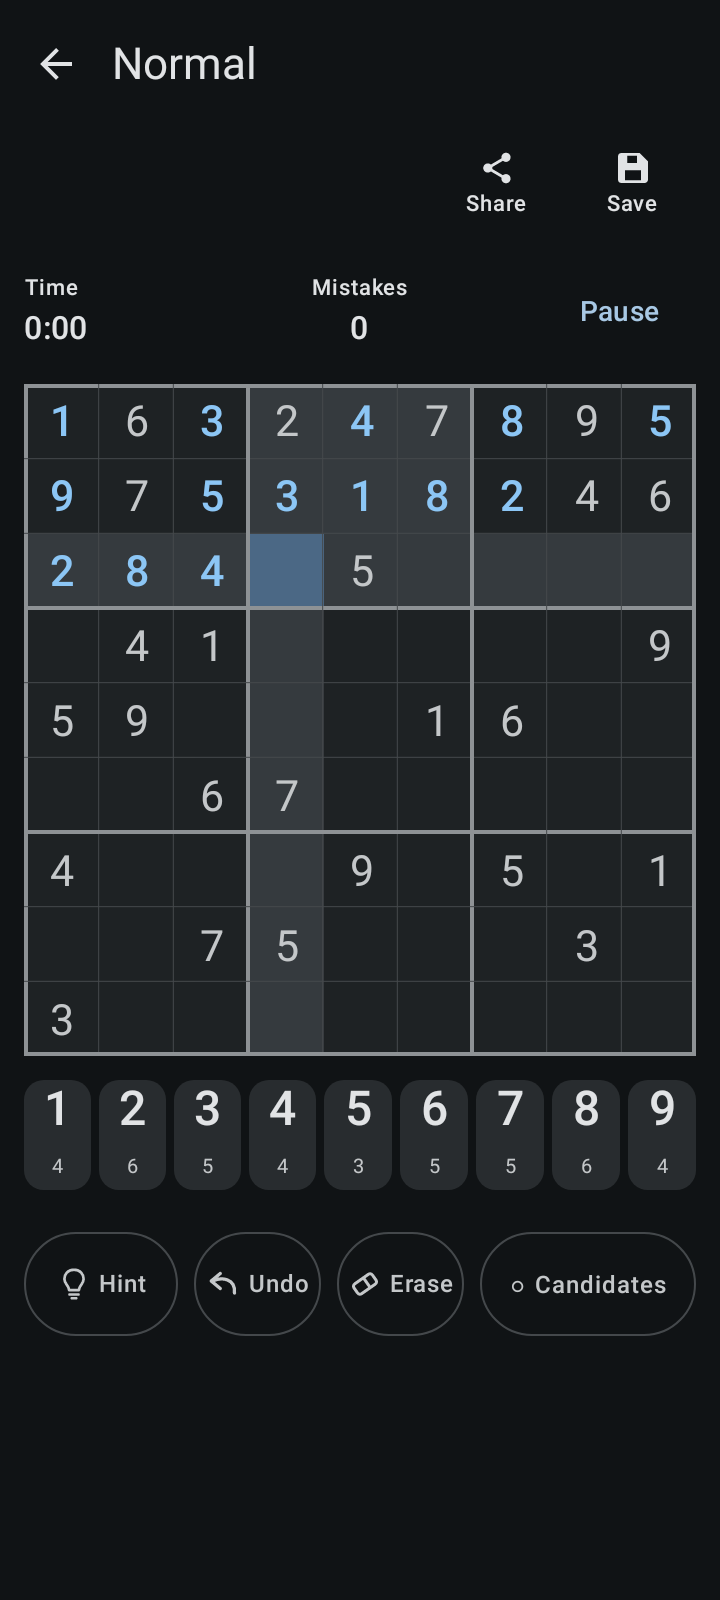
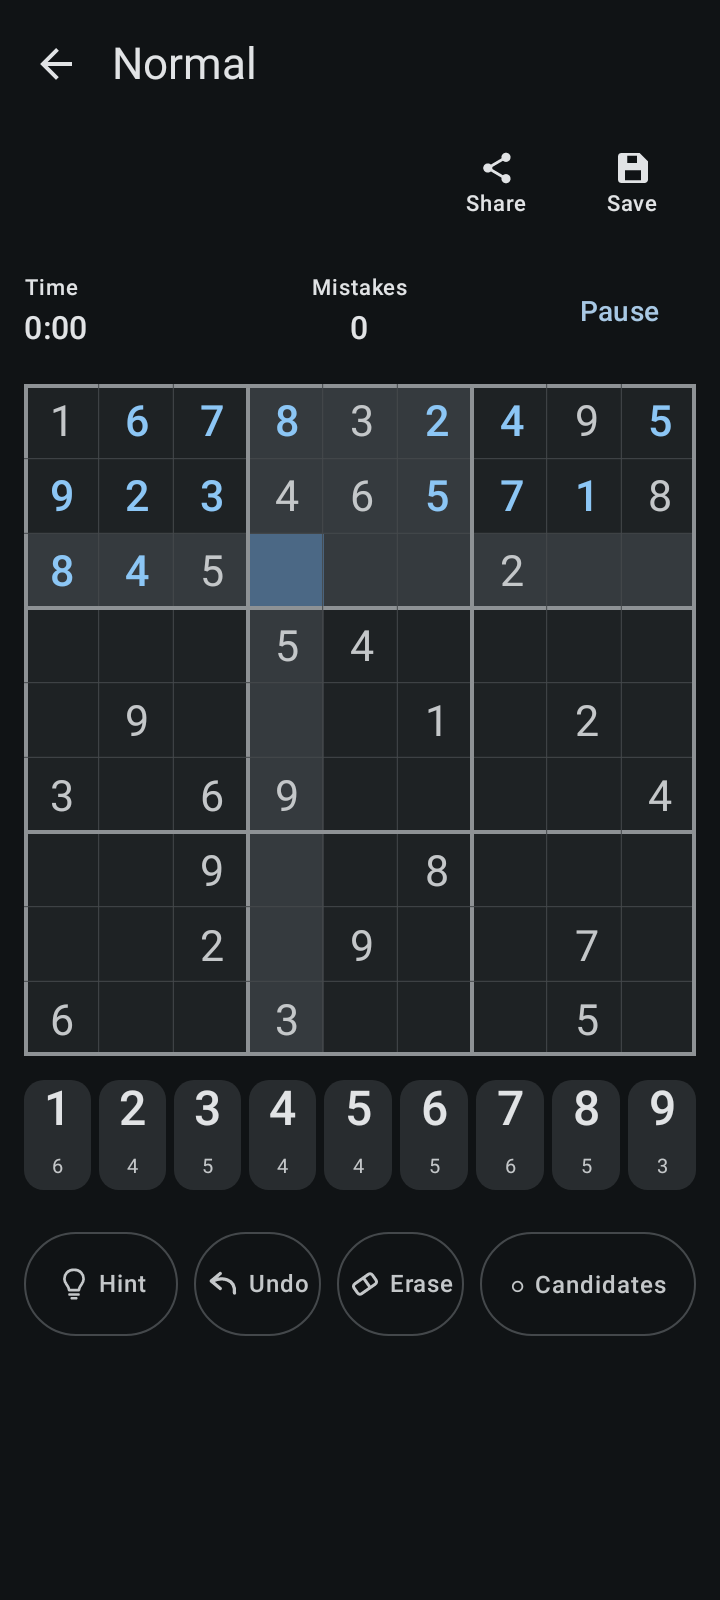
Generate the screenshots from a fixed seed
They changed on every run. startNewGame asks the generator for a fresh board, so each test pass
produced different puzzles and showed up as a modification to committed files — which is exactly what
I had claimed in store/README.md would not happen.

The board now comes from generateFromSeed, and is prepared once and drawn in both themes rather than
played independently for each. Proved rather than asserted this time: the files were deleted and
regenerated by a full run, and came back byte for byte identical to the committed ones. The first
attempt at proving it was worthless — Gradle had skipped the task as up to date, so nothing was
rewritten and of course nothing differed.

Claude-Session: https://claude.ai/code/session_01MsPpuDNgNEUbuBLgchuAx4

diff --git a/app/src/test/kotlin/com/przunk/kratkoza/screenshot/StoreScreenshotsTest.kt b/app/src/test/kotlin/com/przunk/kratkoza/screenshot/StoreScreenshotsTest.kt
@@ -9,6 +9,7 @@ import com.przunk.kratkoza.data.FakePuzzleDao
 import com.przunk.kratkoza.data.FakeSavedGameDao
 import com.przunk.kratkoza.data.repository.DailyRepository
 import com.przunk.kratkoza.data.repository.GameRepository
+import com.przunk.kratkoza.data.repository.toEntity
 import com.przunk.kratkoza.data.repository.StatisticsRepository
 import com.przunk.kratkoza.domain.model.Difficulty
 import com.przunk.kratkoza.domain.settings.GameSettings
@@ -93,13 +94,14 @@ class StoreScreenshotsTest {
     @Test
     fun `every screenshot is written in both themes`() {
         val written = mutableListOf<File>()
+        val puzzleId = preparedBoard()
 
         for (theme in listOf(ThemeMode.DARK, ThemeMode.LIGHT)) {
             val suffix = theme.name.lowercase()
 
             // Built here rather than inside the composable: a ViewModel constructed during
             // composition is rebuilt on every recomposition, and the screens are only being drawn.
-            val game = playedGame()
+            val game = boardOn(puzzleId)
             val daily = DailyViewModel(dailyRepository) { FIXED_DAY }
             val statistics = StatisticsViewModel(statisticsRepository)
 
@@ -141,26 +143,42 @@ class StoreScreenshotsTest {
         }
     }
 
-    /** A board with a few digits in it: an empty grid says nothing about the game. */
-    private fun playedGame(): GameViewModel {
-        val game = runBlocking { repository.startNewGame(Difficulty.NORMAL) }
-        val model = GameViewModel(
-            puzzleId = game.state.puzzle.id,
-            gameRepository = repository,
-            settingsFlow = MutableStateFlow(GameSettings.DEFAULT),
-            debugTools = false,
-            clock = { FIXED_ELAPSED_START },
-        )
+    /**
+     * One board, from a fixed seed, played a little way in.
+     *
+     * Seeded rather than generated freshly, or the screenshots differ on every run and each test
+     * pass shows up as a change to committed files. An empty grid also says nothing about the game,
+     * hence the digits.
+     */
+    private fun preparedBoard(): String {
+        val puzzle = SudokuGenerator().generateFromSeed(Difficulty.NORMAL, BOARD_SEED)
+        val game = runBlocking {
+            puzzleDao.insert(puzzle.toEntity())
+            repository.openGame(puzzle)
+        }
 
+        val model = viewModelFor(puzzle.id)
         val empties = (0 until Sudoku.CELL_COUNT).filter { game.state.puzzle.givens.isEmpty(it) }
         for (cell in empties.take(FILLED_CELLS)) {
             model.selectCell(cell)
             model.enterDigit(game.state.puzzle.solution[cell])
         }
-        // Left on a cell, so the screenshot shows the highlighting rather than a bare grid.
-        model.selectCell(empties[FILLED_CELLS])
-        return model
+        return puzzle.id
     }
+
+    /** The same board again, with a cell chosen so the highlighting shows rather than a bare grid. */
+    private fun boardOn(puzzleId: String): GameViewModel = viewModelFor(puzzleId).apply {
+        val puzzle = runBlocking { repository.loadGame(puzzleId) }!!.state
+        selectCell((0 until Sudoku.CELL_COUNT).first { puzzle.board.isEmpty(it) })
+    }
+
+    private fun viewModelFor(puzzleId: String) = GameViewModel(
+        puzzleId = puzzleId,
+        gameRepository = repository,
+        settingsFlow = MutableStateFlow(GameSettings.DEFAULT),
+        debugTools = false,
+        clock = { FIXED_ELAPSED_START },
+    )
 
     private fun write(name: String, content: @androidx.compose.runtime.Composable () -> Unit): File {
         val bitmap = render(WIDTH_PX, HEIGHT_PX, content = content)
@@ -177,6 +195,9 @@ class StoreScreenshotsTest {
 
         const val FILLED_CELLS = 14
         const val FIXED_ELAPSED_START = 0L
+
+        /** Any fixed value; what matters is that it does not change between runs. */
+        const val BOARD_SEED = 20260829L
         val FIXED_DAY: Instant = LocalDate.parse("2026-08-26").atStartOfDay(java.time.ZoneOffset.UTC)
             .plusHours(12).toInstant()
 
